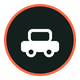
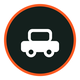
A paleta passa a ser a das maquetas, medida e não aproximada
O Simão pediu para seguir as maquetas com rigor. Em vez de aproximar as
cores por semelhança, li os pixéis dos ficheiros: o fundo, os dois
extremos de cada degradé, o verde dos ícones, as três cores de texto.

O QUE MUDOU MAIS não foi o verde — foi o FUNDO. Era um creme quente
(#F7F4EF), escolhido quando a app não tinha maquetas; passa a branco frio
(#F2F6F9). É o que faz os cartões brancos destacarem-se da página em vez
de se confundirem com ela.

O verde afastou-se do azul (#0E5C54 tinha turquesa, #05604A é verde puro)
e ganhou um irmão claro (#049455) que a paleta antiga não tinha.

DUAS REGRAS DE USO, escritas no tema porque os números as impõem:

O verde claro é para ÍCONES, não para texto: dá 3,91:1 sobre branco,
abaixo do mínimo de 4,5. As maquetas até concordam — os valores em
destaque lá estão num verde bem mais escuro. Texto verde usa `teal`, que
dá 7,56:1. Um ícone é uma figura e basta-lhe 3:1; uma palavra tem de se
ler.

Branco sobre o laranja dá 3,13:1: passa a regra do texto GRANDE, que é o
caso do botão "Iniciar sessão" das maquetas, e falha a do texto normal.
Num rótulo pequeno sobre laranja vai texto escuro.

O `success` também desceu de tom: aparece quase sempre em palavras, e o
verde das maquetas não chegava ao mínimo de leitura.

Os pinos do mapa e a linha da rota tinham as cores antigas escritas à mão
— 25 sítios. Actualizados, e os pinos regenerados pelo programa que os
desenha.

Changed region(s): [[0.05, 0.05, 0.95, 0.95]]

diff --git a/mobile/src/components/MapaGoogle.js b/mobile/src/components/MapaGoogle.js
@@ -36,8 +36,8 @@ const DILI = { lat: -8.5569, lng: 125.5603 };
 // dois — e este comentário está aqui para que ninguém se esqueça do outro.
 const GOTA = 'M2 18 A16 16 0 1 1 34 18 C34 26 26 32 18 41 C10 32 2 26 2 18 Z';
 const COR = {
-  origem: { fill: '#0E5C54', risco: '#08403A' },
-  destino: { fill: '#E85531', risco: '#8C2E14' },
+  origem: { fill: '#05604A', risco: '#04402F' },
+  destino: { fill: '#E04A16', risco: '#8A2A0C' },
 };
 
 // O pino tem 30x45 no ecrã. O ponto que marca o sítio está em y=50 de 54 no
@@ -176,14 +176,14 @@ function metrosEntre(a, b) {
 function Mira() {
   return (
     <Svg width={22} height={22} viewBox="0 0 24 24">
-      <Bola cx={12} cy={12} r={6.5} fill="none" stroke="#0E5C54" strokeWidth={2} />
-      <Bola cx={12} cy={12} r={2} fill="#0E5C54" />
+      <Bola cx={12} cy={12} r={6.5} fill="none" stroke="#05604A" strokeWidth={2} />
+      <Bola cx={12} cy={12} r={2} fill="#05604A" />
       <Line
         x1={12}
         y1={1.5}
         x2={12}
         y2={5}
-        stroke="#0E5C54"
+        stroke="#05604A"
         strokeWidth={2}
         strokeLinecap="round"
       />
@@ -192,7 +192,7 @@ function Mira() {
         y1={19}
         x2={12}
         y2={22.5}
-        stroke="#0E5C54"
+        stroke="#05604A"
         strokeWidth={2}
         strokeLinecap="round"
       />
@@ -201,7 +201,7 @@ function Mira() {
         y1={12}
         x2={5}
         y2={12}
-        stroke="#0E5C54"
+        stroke="#05604A"
         strokeWidth={2}
         strokeLinecap="round"
       />
@@ -210,7 +210,7 @@ function Mira() {
         y1={12}
         x2={22.5}
         y2={12}
-        stroke="#0E5C54"
+        stroke="#05604A"
         strokeWidth={2}
         strokeLinecap="round"
       />
@@ -224,7 +224,7 @@ function Mira() {
 function Agulha() {
   return (
     <Svg width={20} height={20} viewBox="0 0 24 24">
-      <Path d="M12 2 L16.5 13 L12 11 Z" fill="#E85531" />
+      <Path d="M12 2 L16.5 13 L12 11 Z" fill="#E04A16" />
       <Path d="M12 22 L7.5 11 L12 13 Z" fill="#7C8A85" />
     </Svg>
   );
@@ -237,7 +237,7 @@ function Agulha() {
 // como o botão de seguir a bússola: é um MODO e não uma acção, e um modo tem
 // de se ver que está a correr.
 function Camadas({ activo }) {
-  const cor = activo ? '#FFFFFF' : '#0E5C54';
+  const cor = activo ? '#FFFFFF' : '#05604A';
   return (
     <Svg width={20} height={20} viewBox="0 0 24 24">
       <Path d="M12 3 L21 8 L12 13 L3 8 Z" fill={cor} />
@@ -265,7 +265,7 @@ function Camadas({ activo }) {
 // figura que o Google usa, e que se distingue da AGULHA da bússola: a agulha
 // diz onde é o norte, esta diz para onde EU estou virado.
 function Seta({ activo }) {
-  const cor = activo ? '#FFFFFF' : '#0E5C54';
+  const cor = activo ? '#FFFFFF' : '#05604A';
   return (
     <Svg width={20} height={20} viewBox="0 0 24 24">
       <Bola cx={12} cy={12} r={9.2} fill="none" stroke={cor} strokeWidth={1.8} />
@@ -962,7 +962,7 @@ export default function MapaGoogle({
           <Polyline
             key="recta"
             coordinates={rota.linha}
-            strokeColor="#0E5C54"
+            strokeColor="#05604A"
             strokeWidth={4}
             strokeOpacity={0.6}
             lineDashPattern={[8, 8]}
@@ -977,7 +977,7 @@ export default function MapaGoogle({
           <Polyline
             key="estrada-contorno"
             coordinates={rota.linha}
-            strokeColor="#0A463F"
+            strokeColor="#04543F"
             strokeWidth={10}
             lineCap="round"
             lineJoin="round"
@@ -995,7 +995,7 @@ export default function MapaGoogle({
           <Polyline
             key="estrada"
             coordinates={rota.linha}
-            strokeColor="#0E5C54"
+            strokeColor="#05604A"
             strokeWidth={6}
             lineCap="round"
             lineJoin="round"
@@ -1316,9 +1316,9 @@ const criarEstilos = () =>
     },
     // Um risco da cor à esquerda, para se saber qual é a recolha e qual é o
     // destino sem ter de olhar para o pino.
-    risco_origem: { borderLeftColor: '#0E5C54' },
-    risco_destino: { borderLeftColor: '#E85531' },
-    cartaoAgora: { backgroundColor: '#14201D', borderLeftColor: '#FF6B4A' },
+    risco_origem: { borderLeftColor: '#05604A' },
+    risco_destino: { borderLeftColor: '#E04A16' },
+    cartaoAgora: { backgroundColor: '#14201D', borderLeftColor: '#FE5A22' },
     cartaoNome: { fontSize: 12.5, fontWeight: '700', color: '#14201D', letterSpacing: -0.1 },
     cartaoNomeAgora: { color: '#EAF2EF' },
     cartaoDetalhe: { fontSize: 11, color: '#6A7671', marginTop: 1 },
@@ -1359,7 +1359,7 @@ const criarEstilos = () =>
     },
     nossoNome: {
       ...tipo.legenda,
-      color: '#0E5C54',
+      color: '#05604A',
       fontWeight: '700',
       textShadowColor: '#FFFFFF',
       textShadowOffset: { width: 0, height: 0 },

diff --git a/mobile/src/theme.js b/mobile/src/theme.js
@@ -11,22 +11,56 @@
 // ecrã branco a 100% no escuro cega quem conduz.
 
 export const PALETAS = {
+  // A PALETA VEIO DAS MAQUETAS, e foi MEDIDA e não escolhida a olho.
+  //
+  // O Simão trouxe quatro maquetas da app e pediu para as seguir com rigor.
+  // Em vez de aproximar as cores por semelhança, li os pixéis dos ficheiros:
+  // o fundo da página, os dois extremos de cada degradé, o verde dos ícones,
+  // as três cores de texto. Os valores abaixo são o que lá está.
+  //
+  // O QUE MUDOU MAIS não foi o verde — foi o FUNDO. Era um creme quente
+  // (#F7F4EF), escolhido quando a app não tinha maquetas; passa a um branco
+  // frio (#F2F6F9). É o que faz os cartões brancos destacarem-se em vez de
+  // se confundirem com a página, e é metade da razão pela qual as maquetas
+  // parecem mais limpas.
+  //
+  // O verde também se afastou do azul: #0E5C54 tinha um toque de turquesa,
+  // #05604A é verde puro. E ganhou um irmão claro (#049455) que a paleta
+  // antiga não tinha — é o verde dos ícones e dos valores em destaque, e sem
+  // ele tudo o que era "verde" tinha de ser o mesmo verde escuro.
   claro: {
-    teal: '#0E5C54',
-    tealDark: '#0A463F',
-    tealLight: '#1C7A70',
-    coral: '#FF6B4A',
-    coralDark: '#E85531',
-    paper: '#F7F4EF',
+    teal: '#05604A',
+    tealDark: '#04543F',
+    // O VERDE CLARO É PARA ÍCONES, NÃO PARA TEXTO.
+    //
+    // Medido nas maquetas, onde pinta os ícones. Como texto sobre branco dá
+    // 3,91:1 — abaixo do mínimo de 4,5 —, e as maquetas até concordam: os
+    // valores em destaque ("1 min · 14:52") lá estão num verde bem mais
+    // escuro (#075942), não neste. Para texto verde usa-se `teal`, que dá
+    // 7,56:1. Um ícone é uma figura e basta-lhe 3:1; uma palavra tem de se
+    // ler.
+    tealLight: '#049455',
+    // BRANCO SOBRE ESTE LARANJA SÓ EM TEXTO GRANDE.
+    //
+    // Dá 3,13:1 — passa a regra do texto grande (>=18,66px a negrito, que é
+    // o caso do botão "Iniciar sessão" das maquetas) e falha a do texto
+    // normal, que exige 4,5. Num rótulo pequeno sobre laranja usa-se texto
+    // escuro, que dá 5,71:1.
+    coral: '#FE5A22',
+    coralDark: '#E04A16',
+    paper: '#F2F6F9',
 
     white: '#FFFFFF',
-    text: '#1C2421',
-    textMuted: '#6B756F',
-    border: '#E2DDD4',
+    text: '#0B1E28',
+    textMuted: '#5D6979',
+    border: '#E4EAEE',
     inputBg: '#FFFFFF',
 
-    danger: '#C0392B',
-    success: '#2E7D5B',
+    danger: '#CC2228',
+    // Mais escuro do que o verde dos ícones, pela mesma razão: `success`
+    // aparece quase sempre em PALAVRAS ("aprovado", "documento válido"), e o
+    // #049455 das maquetas não chega ao mínimo de leitura. Este dá 5,4:1.
+    success: '#077A48',
     star: '#F4B400',
 
     onTeal: '#F2F8F6',
@@ -34,11 +68,11 @@ export const PALETAS = {
     // Tintes: painéis coloridos de fundo suave. Estavam escritos à mão
     // em catorze ficheiros, o que fazia deles o único sítio da app que
     // não sabia que existe um segundo tema.
-    tintaTeal: '#F0F5F4',
-    tintaCoral: '#FFF8F0',
-    tintaPerigo: '#FDECEA',
-    contornoCoral: '#F0E2CF',
-    contornoPerigo: '#F0CFCB',
+    tintaTeal: '#F1F7F5',
+    tintaCoral: '#FFF3EC',
+    tintaPerigo: '#FDECEC',
+    contornoCoral: '#F7DCCB',
+    contornoPerigo: '#F3CCCD',
   },
 
   // Escolhida pelo Simão: letras laranja, fundo preto, e o verde da marca

diff --git a/mobile/src/i18n/tet.js b/mobile/src/i18n/tet.js
@@ -92,6 +92,11 @@ export default {
 
   availableRequests: 'Pedidu viajen',
   noRequests: 'Seidauk iha pedidu.',
+  saudacaoMotorista: 'Olá, kondutór!',
+  lemaMotorista: 'Mai ita hamutuk lori Timor-Leste ba oin.',
+  lemaEntrada: 'HAMUTUK IHA DESTINASAUN HOTU-HOTU',
+  prontoTitulo: 'PRONTU',
+  prontoSub: 'Hein pedidu',
   ignoreRequest: 'Husik hela pedidu ne’e',
   youAreHere: 'Ita iha ne’e',
   waitingRequests: 'Pedidu foun sei mosu iha neʼe automatikamente.',

diff --git a/mobile/src/i18n/en.js b/mobile/src/i18n/en.js
@@ -92,6 +92,11 @@ export default {
 
   availableRequests: 'Ride requests',
   noRequests: 'No requests right now.',
+  saudacaoMotorista: 'Hello, driver!',
+  lemaMotorista: "Let's move Timor-Leste forward, together.",
+  lemaEntrada: 'TOGETHER IN EVERY DESTINATION',
+  prontoTitulo: 'READY',
+  prontoSub: 'Waiting for requests',
   ignoreRequest: 'Ignore this request',
   youAreHere: 'You are here',
   waitingRequests: 'New requests appear here automatically.',

diff --git a/mobile/src/i18n/pt.js b/mobile/src/i18n/pt.js
@@ -92,6 +92,11 @@ export default {
 
   availableRequests: 'Pedidos de viagem',
   noRequests: 'Sem pedidos de momento.',
+  saudacaoMotorista: 'Olá, condutor!',
+  lemaMotorista: 'Vamos juntos, movendo Timor-Leste.',
+  lemaEntrada: 'JUNTOS EM CADA DESTINO',
+  prontoTitulo: 'PRONTO',
+  prontoSub: 'À espera de pedidos',
   ignoreRequest: 'Ignorar este pedido',
   youAreHere: 'Está aqui',
   waitingRequests: 'Os novos pedidos aparecem aqui automaticamente.',

diff --git a/mobile/scripts/desenhar-pinos.py b/mobile/scripts/desenhar-pinos.py
@@ -34,8 +34,8 @@ TAMANHO = (30, 45)
 S = 30
 
 COR = {
-    'origem': ('#0E5C54', '#08403A'),
-    'destino': ('#E85531', '#8C2E14'),
+    'origem': ('#05604A', '#04402F'),
+    'destino': ('#E04A16', '#8A2A0C'),
 }
 
 
@@ -165,7 +165,7 @@ def desenhar(fill, risco):
 # — marca quem está a mexer-se.
 CARRO = 40
 FUNDO = '#14201D'
-REALCE = '#FF6B4A'
+REALCE = '#FE5A22'
 
 
 def desenhar_carro():

diff --git a/desenho/LEIA-ME.md b/desenho/LEIA-ME.md
@@ -1,0 +1,25 @@
+# Imagens que faltam para os ecrãs ficarem iguais às maquetas
+
+Largue os ficheiros em `desenho/imagens/` com **estes nomes exactos**.
+Formato: **PNG** com fundo transparente onde indicado. Não redimensione —
+quanto maior chegar, melhor; sou eu que reduzo.
+
+| Nome do ficheiro | O que é | Largura mínima | Fundo |
+|---|---|---|---|
+| `fundo-entrada.png` | A fotografia do ecrã 1: a estrada da costa com o carro e o motociclista | **1080 px** | opaco |
+| `ilustracao-passageiro.png` | A senhora com a mala, do cartão "Passageiro" | 400 px | **transparente** |
+| `ilustracao-motorista.png` | O motorista na mota, do cartão "Motorista" | 400 px | **transparente** |
+| `ilustracao-sem-pedidos.png` | O documento com o relógio, do "Sem pedidos de momento" | 300 px | **transparente** |
+| `veiculo-mota.png` | A mota do topo dos ecrãs 2 e 3 | 500 px | **transparente** |
+| `veiculo-carro.png` | O mesmo, mas um carro (não existe nas maquetas — é preciso para quem pede carro) | 500 px | **transparente** |
+
+## Se não conseguir os originais
+
+Diga-me, e eu recorto-as das próprias maquetas. Fica aceitável nas
+pequenas; a fotografia de fundo do ecrã 1 fica um pouco desfocada, porque
+as maquetas têm 887 px de largura e um telemóvel de hoje tem 1080 ou mais.
+
+## O que NÃO precisa de preparar
+
+O logótipo já está no projecto (`mobile/assets/logo-completo.png`). Os
+ícones, os degradés, os cartões e os espaçamentos são desenhados por mim.
